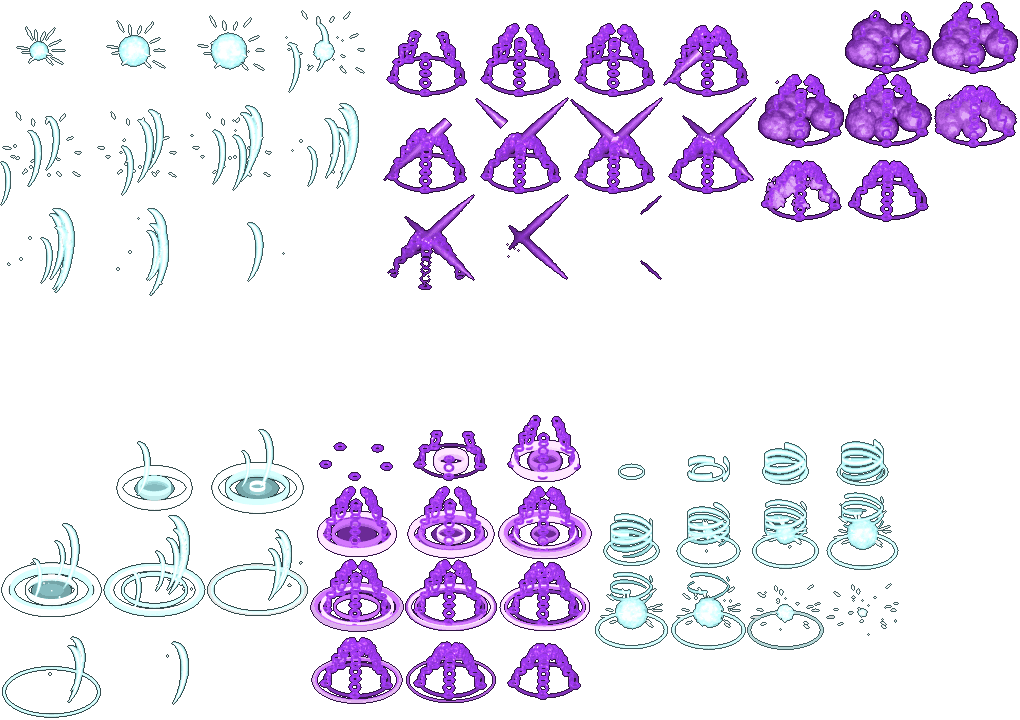
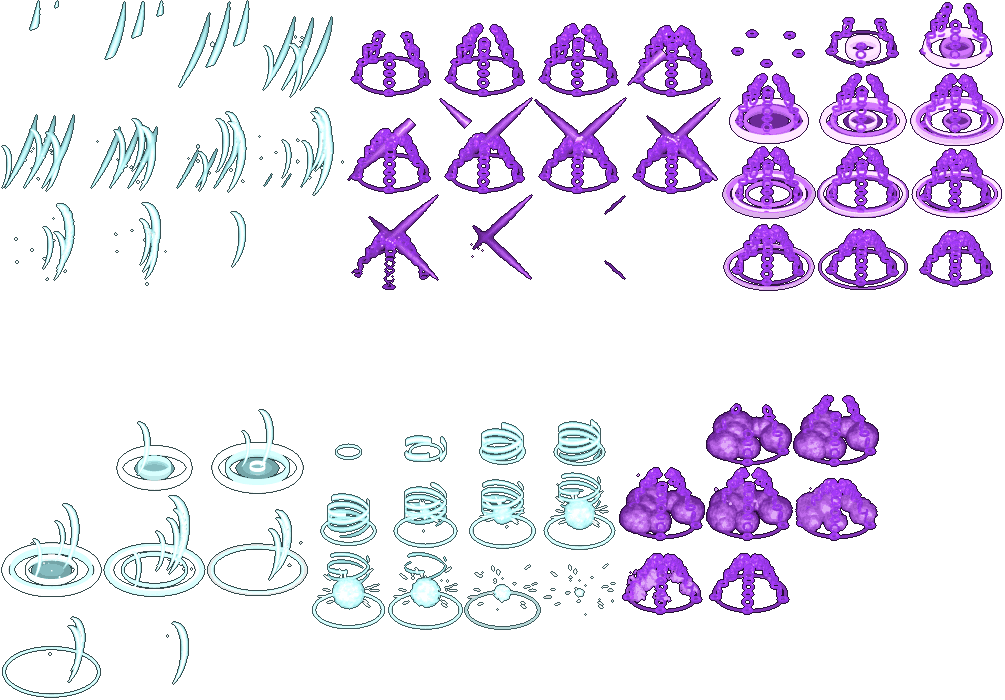
ULT-AUDIT, the full-size pass begun: fifteen judged; the Kunoichi's aftermath, the Ninja Monk's flurry and the Gunslinger's shots changed
Claude-Session: https://claude.ai/code/session_01RRJtWnKv3aqtC5Z8HqXpVz

diff --git a/src/render/blenderFxData.ts b/src/render/blenderFxData.ts
@@ -7,7 +7,7 @@ import type { BfxClip } from './blenderFxRules';
 export const BFX_DENSITY = 45;
 export const BFX_GLOW_SHRINK = 4;
 /** The hard pixel atlases' sizes, then the soft glow atlases' (`px-<n>.webp`, `soft-<n>.webp`). */
-export const BFX_PX: readonly (readonly [number, number])[] = [[2041, 2022], [1992, 694], [1088, 1104], [808, 1016], [822, 588], [885, 820], [217, 241], [988, 806], [1137, 1385], [1016, 691], [994, 778], [316, 280], [986, 966], [1016, 805], [545, 277], [1015, 996], [923, 903], [1020, 720], [1176, 1280], [1516, 1280], [873, 563], [1137, 1405], [1008, 1200], [979, 716], [929, 910], [620, 256], [1264, 1028], [994, 605], [1023, 821], [919, 810], [874, 978], [277, 220], [754, 896], [991, 893], [1022, 950], [280, 259], [817, 817], [918, 856], [980, 813], [802, 799], [834, 1009], [991, 950], [689, 569], [841, 1021], [881, 584], [900, 898], [286, 217], [930, 974], [494, 241], [987, 993], [286, 196], [977, 902], [541, 473], [781, 941], [894, 701], [943, 886], [902, 993], [1076, 1048], [980, 738], [917, 874], [451, 496], [984, 1048], [974, 866], [1001, 758], [1516, 1200], [1014, 630], [1137, 1400], [992, 776], [1516, 1200], [891, 926], [829, 809], [945, 680], [1020, 1011], [813, 223], [1018, 1022], [499, 136], [1024, 1018], [699, 226], [1012, 1015], [515, 145], [1019, 991], [492, 148], [1003, 1020], [428, 213], [1015, 1018], [429, 124], [1003, 1006], [960, 208], [1021, 1023], [473, 145], [1024, 1008], [650, 226]];
+export const BFX_PX: readonly (readonly [number, number])[] = [[2041, 2022], [1992, 694], [1088, 1104], [808, 1016], [822, 588], [885, 820], [217, 241], [961, 806], [1137, 1385], [1016, 691], [994, 778], [316, 280], [986, 966], [1016, 805], [545, 277], [1015, 996], [923, 903], [1005, 700], [1176, 1280], [1516, 1280], [873, 563], [1137, 1405], [1008, 1200], [979, 716], [929, 918], [620, 256], [1264, 1028], [994, 605], [1023, 821], [919, 810], [874, 978], [277, 220], [754, 896], [991, 893], [1022, 950], [280, 259], [817, 817], [918, 856], [980, 813], [802, 799], [834, 1009], [991, 950], [689, 569], [841, 1021], [881, 584], [900, 898], [286, 217], [930, 974], [494, 241], [987, 993], [286, 196], [977, 902], [541, 473], [781, 941], [894, 701], [943, 886], [902, 993], [1076, 1048], [980, 738], [917, 874], [451, 496], [984, 1048], [974, 866], [1001, 758], [1516, 1200], [1014, 630], [1137, 1400], [992, 776], [1516, 1200], [891, 926], [829, 809], [945, 680], [1020, 1011], [813, 223], [1018, 1022], [499, 136], [1024, 1018], [699, 226], [1012, 1015], [515, 145], [1019, 991], [492, 148], [1003, 1020], [428, 213], [1015, 1018], [429, 124], [1003, 1006], [960, 208], [1021, 1023], [473, 145], [1024, 1008], [650, 226]];
 export const BFX_SOFT: readonly (readonly [number, number])[] = [[2048, 1319]];
 /** The pixel atlases every fight may need (the spells, the ground loops): loaded up front. The rest are loaded when a fight needs them. */
 export const BFX_CORE: readonly number[] = [0, 1];
@@ -280,9 +280,9 @@ export const BFX_CLIPS: Readonly<Record<string, BfxClip>> = {
   'ult-bombardier-aftermath': {"a": 65, "x": 271, "y": 401, "w": 81, "h": 71, "n": 9, "cols": 3, "ax": 36.0, "ay": 50.4, "ms": 1800, "loop": false, "hold": 4, "layer": "over", "el": "fire", "cuts": [[0, 7], [1, 8]], "sc": ["flames", "cloud"]},
   'ult-bombardier-strike': {"a": 64, "x": 0, "y": 0, "w": 379, "h": 300, "n": 13, "cols": 4, "ax": 189.5, "ay": 205.1, "ms": 1300, "loop": false, "hold": 6, "layer": "over", "el": "fire", "cuts": [[1, 12], [0, 8], [3, 12]], "sc": ["impact", "shaft", "burst"]},
   'ult-bombardier-windup': {"a": 65, "x": 481, "y": 0, "w": 93, "h": 92, "n": 12, "cols": 3, "ax": 46.5, "ay": 68.6, "ms": 2000, "loop": false, "hold": 11, "layer": "over", "el": "fire", "cuts": [[0, 11], [3, 11]], "sc": ["flames", "geyser"]},
-  'ult-buccaneer-aftermath': {"a": 17, "x": 758, "y": 0, "w": 87, "h": 74, "n": 9, "cols": 3, "ax": 44.0, "ay": 53.2, "ms": 1600, "loop": false, "hold": 4, "layer": "over", "el": "shadow", "cuts": [[0, 7], [1, 8]], "sc": ["cloud", "chains"]},
-  'ult-buccaneer-strike': {"a": 17, "x": 381, "y": 0, "w": 94, "h": 97, "n": 13, "cols": 4, "ax": 46.5, "ay": 76.4, "ms": 1300, "loop": false, "hold": 6, "layer": "over", "el": "shadow", "cuts": [[0, 8], [3, 12]], "sc": ["chains", "cross"], "at": "each"},
-  'ult-buccaneer-windup': {"a": 17, "x": 310, "y": 413, "w": 94, "h": 73, "n": 12, "cols": 3, "ax": 47.0, "ay": 48.8, "ms": 1700, "loop": false, "hold": 6, "layer": "over", "el": "shadow", "cuts": [[0, 11], [0, 11]], "sc": ["chains", "ring"]},
+  'ult-buccaneer-aftermath': {"a": 17, "x": 619, "y": 393, "w": 87, "h": 74, "n": 9, "cols": 3, "ax": 44.0, "ay": 53.2, "ms": 1600, "loop": false, "hold": 4, "layer": "over", "el": "shadow", "cuts": [[0, 7], [1, 8]], "sc": ["cloud", "chains"]},
+  'ult-buccaneer-strike': {"a": 17, "x": 345, "y": 0, "w": 94, "h": 97, "n": 13, "cols": 4, "ax": 46.5, "ay": 76.4, "ms": 1300, "loop": false, "hold": 6, "layer": "over", "el": "shadow", "cuts": [[0, 8], [3, 12]], "sc": ["chains", "cross"], "at": "each"},
+  'ult-buccaneer-windup': {"a": 17, "x": 722, "y": 0, "w": 94, "h": 73, "n": 12, "cols": 3, "ax": 47.0, "ay": 48.8, "ms": 1700, "loop": false, "hold": 6, "layer": "over", "el": "shadow", "cuts": [[0, 11], [0, 11]], "sc": ["chains", "ring"]},
   'ult-cleric-aftermath': {"a": 49, "x": 674, "y": 537, "w": 104, "h": 85, "n": 9, "cols": 3, "ax": 52.0, "ay": 58.4, "ms": 1700, "loop": false, "hold": 3, "layer": "over", "el": "holy", "cuts": [[0, 7], [1, 8]], "sc": ["ring", "motes"], "g": {"a": 0, "x": 1513, "y": 1142, "w": 31, "h": 27, "cols": 3, "ax": 15.5, "ay": 17.09}},
   'ult-cleric-strike': {"a": 49, "x": 0, "y": 0, "w": 162, "h": 134, "n": 13, "cols": 4, "ax": 81.0, "ay": 92.6, "ms": 1300, "loop": false, "hold": 5, "layer": "over", "el": "holy", "cuts": [[0, 8], [3, 12], [1, 11]], "sc": ["souls", "motes", "ring"], "at": "self", "g": {"a": 0, "x": 684, "y": 452, "w": 47, "h": 46, "cols": 4, "ax": 23.25, "ay": 32.66}},
   'ult-cleric-windup': {"a": 49, "x": 391, "y": 537, "w": 94, "h": 73, "n": 12, "cols": 3, "ax": 47.0, "ay": 48.8, "ms": 1900, "loop": false, "hold": 9, "layer": "over", "el": "holy", "cuts": [[0, 11], [1, 11]], "sc": ["ring", "souls"], "g": {"a": 0, "x": 126, "y": 1032, "w": 29, "h": 35, "cols": 4, "ax": 14.25, "ay": 26.2}},
@@ -314,7 +314,7 @@ export const BFX_CLIPS: Readonly<Record<string, BfxClip>> = {
   'ult-gorgon-strike': {"a": 30, "x": 0, "y": 649, "w": 78, "h": 82, "n": 13, "cols": 4, "ax": 38.5, "ay": 62.6, "ms": 1300, "loop": false, "hold": 5, "layer": "over", "el": "poison", "cuts": [[0, 8], [3, 12]], "sc": ["crystal", "smoke"], "at": "each"},
   'ult-gorgon-windup': {"a": 30, "x": 573, "y": 0, "w": 100, "h": 93, "n": 12, "cols": 3, "ax": 50.0, "ay": 67.8, "ms": 1900, "loop": false, "hold": 11, "layer": "over", "el": "poison", "cuts": [[0, 11], [2, 11]], "sc": ["vines", "eye"]},
   'ult-gunslinger-aftermath': {"a": 25, "x": 310, "y": 0, "w": 103, "h": 72, "n": 9, "cols": 3, "ax": 51.5, "ay": 44.7, "ms": 1800, "loop": false, "hold": 3, "layer": "over", "el": "fire", "cuts": [[0, 7], [1, 8]], "sc": ["ring", "smoke"]},
-  'ult-gunslinger-strike': {"a": 24, "x": 0, "y": 565, "w": 96, "h": 86, "n": 13, "cols": 4, "ax": 49.0, "ay": 76.0, "ms": 1300, "loop": false, "hold": 6, "layer": "over", "el": "fire", "cuts": [[0, 8], [3, 12]], "sc": ["sparks", "cross"], "at": "each"},
+  'ult-gunslinger-strike': {"a": 24, "x": 0, "y": 565, "w": 110, "h": 88, "n": 13, "cols": 4, "ax": 55.0, "ay": 59.9, "ms": 1300, "loop": false, "hold": 8, "layer": "over", "el": "fire", "cuts": [[0, 8], [3, 12]], "sc": ["sparks", "flare"], "at": "each"},
   'ult-gunslinger-windup': {"a": 24, "x": 649, "y": 0, "w": 93, "h": 91, "n": 12, "cols": 3, "ax": 46.5, "ay": 67.6, "ms": 2000, "loop": false, "hold": 11, "layer": "over", "el": "fire", "cuts": [[0, 11], [7, 11]], "sc": ["halo", "sparks"]},
   'ult-harpooner-aftermath': {"a": 71, "x": 301, "y": 373, "w": 89, "h": 77, "n": 9, "cols": 3, "ax": 45.0, "ay": 53.4, "ms": 1600, "loop": false, "hold": 4, "layer": "over", "el": "ice", "cuts": [[0, 7], [1, 8]], "sc": ["spikes", "chains"]},
   'ult-harpooner-strike': {"a": 71, "x": 584, "y": 0, "w": 90, "h": 77, "n": 13, "cols": 4, "ax": 45.5, "ay": 54.0, "ms": 1300, "loop": false, "hold": 6, "layer": "over", "el": "ice", "cuts": [[0, 8], [3, 12]], "sc": ["chains", "spikes"], "at": "each"},
@@ -346,9 +346,9 @@ export const BFX_CLIPS: Readonly<Record<string, BfxClip>> = {
   'ult-kraken-aftermath': {"a": 33, "x": 557, "y": 0, "w": 104, "h": 103, "n": 9, "cols": 3, "ax": 52.5, "ay": 75.6, "ms": 1700, "loop": false, "hold": 3, "layer": "over", "el": "water", "cuts": [[0, 7], [1, 8]], "sc": ["ring", "geyser"]},
   'ult-kraken-strike': {"a": 33, "x": 0, "y": 0, "w": 139, "h": 153, "n": 13, "cols": 4, "ax": 69.0, "ay": 117.7, "ms": 1300, "loop": false, "hold": 6, "layer": "over", "el": "water", "cuts": [[0, 8], [3, 12]], "sc": ["whirlpool", "geyser"], "at": "self"},
   'ult-kraken-windup': {"a": 33, "x": 0, "y": 613, "w": 91, "h": 93, "n": 12, "cols": 4, "ax": 45.5, "ay": 69.6, "ms": 1900, "loop": false, "hold": 11, "layer": "over", "el": "water", "cuts": [[0, 11], [4, 11]], "sc": ["whirlpool", "geyser"]},
-  'ult-kunoichi-aftermath': {"a": 7, "x": 536, "y": 485, "w": 89, "h": 77, "n": 9, "cols": 3, "ax": 46.0, "ay": 57.4, "ms": 1600, "loop": false, "hold": 4, "layer": "over", "el": "shadow", "cuts": [[0, 7], [1, 8]], "sc": ["cloud", "swarm"]},
+  'ult-kunoichi-aftermath': {"a": 7, "x": 250, "y": 485, "w": 80, "h": 89, "n": 9, "cols": 3, "ax": 40.5, "ay": 70.7, "ms": 1600, "loop": false, "hold": 4, "layer": "over", "el": "shadow", "cuts": [[0, 7], [1, 8]], "sc": ["gust", "swarm"]},
   'ult-kunoichi-strike': {"a": 7, "x": 521, "y": 0, "w": 94, "h": 87, "n": 13, "cols": 4, "ax": 46.5, "ay": 76.4, "ms": 1300, "loop": false, "hold": 4, "layer": "over", "el": "shadow", "cuts": [[0, 8], [3, 12]], "sc": ["cross", "swarm"], "at": "each"},
-  'ult-kunoichi-windup': {"a": 7, "x": 804, "y": 485, "w": 61, "h": 52, "n": 12, "cols": 3, "ax": 27.5, "ay": 43.6, "ms": 1700, "loop": false, "hold": 7, "layer": "over", "el": "shadow", "cuts": [[0, 11], [3, 11]], "sc": ["smoke", "swarm"]},
+  'ult-kunoichi-windup': {"a": 7, "x": 777, "y": 485, "w": 61, "h": 52, "n": 12, "cols": 3, "ax": 27.5, "ay": 43.6, "ms": 1700, "loop": false, "hold": 7, "layer": "over", "el": "shadow", "cuts": [[0, 11], [3, 11]], "sc": ["smoke", "swarm"]},
   'ult-lancer-aftermath': {"a": 14, "x": 0, "y": 0, "w": 89, "h": 92, "n": 9, "cols": 3, "ax": 38.0, "ay": 67.4, "ms": 1500, "loop": false, "hold": 5, "layer": "over", "el": "wind", "cuts": [[0, 7], [1, 8]], "sc": ["trail", "gust"]},
   'ult-lancer-strike': {"a": 13, "x": 0, "y": 0, "w": 183, "h": 201, "n": 13, "cols": 4, "ax": 79.5, "ay": 127.9, "ms": 1300, "loop": false, "hold": 4, "layer": "over", "el": "wind", "cuts": [[0, 8], [3, 12], [1, 11]], "sc": ["trail", "gust", "sparks"]},
   'ult-lancer-windup': {"a": 14, "x": 268, "y": 0, "w": 69, "h": 77, "n": 12, "cols": 4, "ax": 34.0, "ay": 55.8, "ms": 1600, "loop": false, "hold": 6, "layer": "over", "el": "wind", "cuts": [[0, 11], [3, 11]], "sc": ["gust", "trail"]},
@@ -370,10 +370,10 @@ export const BFX_CLIPS: Readonly<Record<string, BfxClip>> = {
   'ult-nightstalker-aftermath': {"a": 56, "x": 577, "y": 0, "w": 81, "h": 102, "n": 9, "cols": 4, "ax": 43.5, "ay": 78.5, "ms": 1600, "loop": false, "hold": 3, "layer": "over", "el": "shadow", "cuts": [[0, 7], [1, 8]], "sc": ["cloud", "claws"]},
   'ult-nightstalker-strike': {"a": 56, "x": 0, "y": 0, "w": 144, "h": 181, "n": 13, "cols": 4, "ax": 71.0, "ay": 157.1, "ms": 1300, "loop": false, "hold": 6, "layer": "over", "el": "shadow", "cuts": [[0, 8], [3, 12]], "sc": ["swarm", "claws"]},
   'ult-nightstalker-windup': {"a": 56, "x": 329, "y": 725, "w": 66, "h": 61, "n": 12, "cols": 3, "ax": 30.5, "ay": 51.6, "ms": 1700, "loop": false, "hold": 7, "layer": "over", "el": "shadow", "cuts": [[0, 11], [2, 11]], "sc": ["swarm", "smoke"]},
-  'ult-ninjaMonk-aftermath': {"a": 17, "x": 0, "y": 413, "w": 103, "h": 102, "n": 9, "cols": 3, "ax": 51.5, "ay": 75.7, "ms": 1600, "loop": false, "hold": 3, "layer": "over", "el": "wind", "cuts": [[0, 7], [1, 8]], "sc": ["ring", "gust"]},
-  'ult-ninjaMonk-strike': {"a": 17, "x": 0, "y": 0, "w": 95, "h": 103, "n": 13, "cols": 4, "ax": 39.0, "ay": 70.7, "ms": 1300, "loop": false, "hold": 6, "layer": "over", "el": "wind", "cuts": [[0, 8], [3, 12]], "sc": ["sparks", "gust"], "at": "each"},
-  'ult-ninjaMonk-windup': {"a": 17, "x": 593, "y": 413, "w": 77, "h": 79, "n": 12, "cols": 4, "ax": 38.5, "ay": 59.6, "ms": 1700, "loop": false, "hold": 7, "layer": "over", "el": "wind", "cuts": [[0, 11], [4, 11]], "sc": ["spiral", "sparks"]},
-  'ult-nyxara-aftermath': {"a": 7, "x": 250, "y": 485, "w": 95, "h": 89, "n": 9, "cols": 3, "ax": 47.5, "ay": 64.7, "ms": 1700, "loop": false, "hold": 4, "layer": "over", "el": "lightning", "cuts": [[0, 7], [1, 8]], "sc": ["sigil", "spiral"], "g": {"a": 0, "x": 1608, "y": 1142, "w": 30, "h": 27, "cols": 3, "ax": 14.88, "ay": 18.17}},
+  'ult-ninjaMonk-aftermath': {"a": 17, "x": 0, "y": 393, "w": 103, "h": 102, "n": 9, "cols": 3, "ax": 51.5, "ay": 75.7, "ms": 1600, "loop": false, "hold": 3, "layer": "over", "el": "wind", "cuts": [[0, 7], [1, 8]], "sc": ["ring", "gust"]},
+  'ult-ninjaMonk-strike': {"a": 17, "x": 0, "y": 0, "w": 86, "h": 98, "n": 13, "cols": 4, "ax": 40.0, "ay": 78.7, "ms": 1300, "loop": false, "hold": 4, "layer": "over", "el": "wind", "cuts": [[0, 8], [3, 12]], "sc": ["claws", "gust"], "at": "each"},
+  'ult-ninjaMonk-windup': {"a": 17, "x": 310, "y": 393, "w": 77, "h": 79, "n": 12, "cols": 4, "ax": 38.5, "ay": 59.6, "ms": 1700, "loop": false, "hold": 7, "layer": "over", "el": "wind", "cuts": [[0, 11], [4, 11]], "sc": ["spiral", "sparks"]},
+  'ult-nyxara-aftermath': {"a": 7, "x": 491, "y": 485, "w": 95, "h": 89, "n": 9, "cols": 3, "ax": 47.5, "ay": 64.7, "ms": 1700, "loop": false, "hold": 4, "layer": "over", "el": "lightning", "cuts": [[0, 7], [1, 8]], "sc": ["sigil", "spiral"], "g": {"a": 0, "x": 1608, "y": 1142, "w": 30, "h": 27, "cols": 3, "ax": 14.88, "ay": 18.17}},
   'ult-nyxara-strike': {"a": 7, "x": 0, "y": 0, "w": 130, "h": 121, "n": 13, "cols": 4, "ax": 65.0, "ay": 88.3, "ms": 1300, "loop": false, "hold": 7, "layer": "over", "el": "lightning", "cuts": [[0, 8], [3, 12]], "sc": ["sigil", "spiral"], "at": "friends", "g": {"a": 0, "x": 1121, "y": 744, "w": 40, "h": 37, "cols": 4, "ax": 20.0, "ay": 24.58}},
   'ult-nyxara-windup': {"a": 7, "x": 0, "y": 485, "w": 83, "h": 80, "n": 12, "cols": 3, "ax": 41.5, "ay": 58.9, "ms": 1900, "loop": false, "hold": 9, "layer": "over", "el": "lightning", "cuts": [[0, 11], [3, 11]], "sc": ["sigil", "spiral"], "g": {"a": 0, "x": 472, "y": 1032, "w": 28, "h": 35, "cols": 4, "ax": 13.62, "ay": 26.22}},
   'ult-orrun-aftermath': {"a": 6, "x": 0, "y": 0, "w": 72, "h": 80, "n": 9, "cols": 3, "ax": 35.5, "ay": 58.5, "ms": 1700, "loop": false, "hold": 4, "layer": "over", "el": "forest", "cuts": [[0, 7], [1, 8]], "sc": ["vines", "swarm"]},
@@ -399,7 +399,7 @@ export const BFX_CLIPS: Readonly<Record<string, BfxClip>> = {
   'ult-reaper-windup': {"a": 38, "x": 721, "y": 0, "w": 86, "h": 76, "n": 12, "cols": 3, "ax": 40.5, "ay": 55.0, "ms": 1900, "loop": false, "hold": 10, "layer": "over", "el": "shadow", "cuts": [[0, 11], [6, 11]], "sc": ["souls", "arc"]},
   'ult-rifleBot-aftermath': {"a": 25, "x": 0, "y": 0, "w": 103, "h": 85, "n": 9, "cols": 3, "ax": 51.5, "ay": 58.1, "ms": 1600, "loop": false, "hold": 3, "layer": "over", "el": "lightning", "cuts": [[0, 7], [1, 8]], "sc": ["ring", "sparks"], "g": {"a": 0, "x": 1774, "y": 1032, "w": 42, "h": 31, "cols": 3, "ax": 20.62, "ay": 19.28}},
   'ult-rifleBot-strike': {"a": 24, "x": 0, "y": 0, "w": 162, "h": 141, "n": 13, "cols": 4, "ax": 81.0, "ay": 99.8, "ms": 1300, "loop": false, "hold": 5, "layer": "over", "el": "lightning", "cuts": [[0, 8], [3, 12], [1, 11]], "sc": ["sparks", "ring", "spiral"], "at": "self", "g": {"a": 0, "x": 236, "y": 452, "w": 63, "h": 47, "cols": 3, "ax": 31.25, "ay": 29.2}},
-  'ult-rifleBot-windup': {"a": 24, "x": 385, "y": 565, "w": 86, "h": 98, "n": 12, "cols": 4, "ax": 48.5, "ay": 78.6, "ms": 1700, "loop": false, "hold": 11, "layer": "over", "el": "lightning", "cuts": [[0, 11], [6, 11]], "sc": ["sparks", "bolt"], "g": {"a": 0, "x": 1283, "y": 744, "w": 38, "h": 37, "cols": 3, "ax": 18.88, "ay": 26.16}},
+  'ult-rifleBot-windup': {"a": 24, "x": 441, "y": 565, "w": 86, "h": 98, "n": 12, "cols": 4, "ax": 48.5, "ay": 78.6, "ms": 1700, "loop": false, "hold": 11, "layer": "over", "el": "lightning", "cuts": [[0, 11], [6, 11]], "sc": ["sparks", "bolt"], "g": {"a": 0, "x": 1283, "y": 744, "w": 38, "h": 37, "cols": 3, "ax": 18.88, "ay": 26.16}},
   'ult-sage-aftermath': {"a": 50, "x": 0, "y": 0, "w": 95, "h": 65, "n": 9, "cols": 3, "ax": 47.5, "ay": 41.4, "ms": 1700, "loop": false, "hold": 6, "layer": "over", "el": "lightning", "cuts": [[0, 7], [1, 8]], "sc": ["sigil", "dome"], "g": {"a": 0, "x": 596, "y": 1237, "w": 30, "h": 23, "cols": 3, "ax": 14.88, "ay": 13.35}},
   'ult-sage-strike': {"a": 49, "x": 0, "y": 537, "w": 130, "h": 91, "n": 13, "cols": 3, "ax": 65.0, "ay": 58.2, "ms": 1300, "loop": false, "hold": 6, "layer": "over", "el": "lightning", "cuts": [[0, 8], [3, 12]], "sc": ["dome", "sigil"], "at": "friends", "g": {"a": 0, "x": 563, "y": 744, "w": 40, "h": 30, "cols": 3, "ax": 20.0, "ay": 17.79}},
   'ult-sage-windup': {"a": 49, "x": 649, "y": 0, "w": 81, "h": 79, "n": 12, "cols": 3, "ax": 40.5, "ay": 59.1, "ms": 1900, "loop": false, "hold": 7, "layer": "over", "el": "lightning", "cuts": [[0, 11], [4, 11]], "sc": ["spiral", "dome"], "g": {"a": 0, "x": 700, "y": 1032, "w": 27, "h": 35, "cols": 4, "ax": 13.12, "ay": 26.27}},

diff --git a/tools/blender-fx/effects.py b/tools/blender-fx/effects.py
@@ -189,9 +189,9 @@ ULTS = dict(
     orrun=('forest', 'vines', 'dome', 'bless'), nyxara=('lightning', 'sigil', 'spiral', 'bless'), kunoichi=('shadow', 'cross', 'swarm', 'blinks'),
     wizard=('fire', 'burst', 'crack', 'sky'), beastmaster=('forest', 'beast', 'trail', 'pack'), mercenary=('blood', 'cross', 'sparks', 'blinks'),
     arcBlade=('lightning', 'bolt', 'cross', 'blinks'), samurai=('holy', 'arc', 'sparks', 'line'), lancer=('wind', 'trail', 'gust', 'line'),
-    minotaur=('earth', 'crack', 'smoke', 'line'), barbarian=('blood', 'crack', 'burst', 'leap'), ninjaMonk=('wind', 'sparks', 'gust', 'blows'),
+    minotaur=('earth', 'crack', 'smoke', 'line'), barbarian=('blood', 'crack', 'burst', 'leap'), ninjaMonk=('wind', 'claws', 'gust', 'blows'),
     buccaneer=('shadow', 'chains', 'cross', 'hooks'), archer=('wind', 'rain', 'ring', 'sky'), dreadPirate=('shadow', 'rain', 'burst', 'sky'),
-    siegeBot=('fire', 'burst', 'shockwave', 'sky'), lightningMage=('lightning', 'cloud', 'bolt', 'shots'), gunslinger=('fire', 'sparks', 'cross', 'shots'),
+    siegeBot=('fire', 'burst', 'shockwave', 'sky'), lightningMage=('lightning', 'cloud', 'bolt', 'shots'), gunslinger=('fire', 'sparks', 'flare', 'shots'),
     rifleBot=('lightning', 'sparks', 'ring', 'shots'), dragoon=('fire', 'flare', 'wall', 'shots'), ranger=('forest', 'vines', 'ring', 'burst'),
     knight=('holy', 'shout', 'dome', 'burst'), paladin=('holy', 'nova', 'strike', 'burst'), yamabushi=('wind', 'vortex', 'gust', 'burst'),
     gorgon=('poison', 'crystal', 'smoke', 'burst'), juggernaut=('earth', 'crack', 'spikes', 'burst'), kraken=('water', 'whirlpool', 'geyser', 'burst'),
@@ -265,7 +265,7 @@ WIND_COLOURS = dict(beastmaster=22)
 # ground loops' pairs out of this file by their shape.)
 AFTER_OWN = dict(
     vael=['sigil', 'souls'], astrax=['flames', 'motes'], ilyra=['ring', 'halo'], orrun=['vines', 'swarm'],
-    nyxara=['sigil', 'spiral'], kunoichi=['cloud', 'swarm'], wizard=['crack', 'flames'], beastmaster=['gust', 'motes'],
+    nyxara=['sigil', 'spiral'], kunoichi=['gust', 'swarm'], wizard=['crack', 'flames'], beastmaster=['gust', 'motes'],
     mercenary=['crack', 'sparks'], arcBlade=['crack', 'bolt'], samurai=['trail', 'veil'], lancer=['trail', 'gust'],
     minotaur=['crack', 'smoke'], barbarian=['crack', 'flare'], ninjaMonk=['ring', 'gust'], buccaneer=['cloud', 'chains'],
     archer=['ring', 'shaft'], dreadPirate=['crack', 'souls'], siegeBot=['crack', 'cloud'], lightningMage=['cloud', 'bolt'],

diff --git a/tools/blender-fx/full_pass.py b/tools/blender-fx/full_pass.py
@@ -1,0 +1,31 @@
+"""ULT-AUDIT (docs/notes/ult-audit.md): a few heroes' ultimates at full size, to judge whether each reads as its ability.
+
+    python3 tools/blender-fx/full_pass.py <frames> <out.jpg> <pick,pick,...>
+
+Four moments of each (the wind-up at its height, the strike late, the aftermath early and in its middle), cut to the board, unscaled.
+"""
+import sys
+from pathlib import Path
+
+from PIL import Image, ImageDraw
+
+src, out, picks = Path(sys.argv[1]), sys.argv[2], sys.argv[3].split(',')
+WANT = (2, 4, 5, 6)
+rows = []
+for pick in picks:
+    fs = {int(f.stem.split('-')[2]): f for f in src.glob(f'{pick}-393-*.png')}
+    if not all(n in fs for n in WANT):
+        continue
+    row = Image.new('RGB', (393 * len(WANT), 384), (18, 18, 24))
+    d = ImageDraw.Draw(row)
+    for i, n in enumerate(WANT):
+        row.paste(Image.open(fs[n]).convert('RGB').crop((0, 230, 393, 600)), (i * 393, 14))
+        d.text((i * 393 + 4, 1), f'{pick}: {fs[n].stem.split("-")[3]}' if i == 0 else fs[n].stem.split('-')[3], fill=(255, 235, 170))
+    rows.append(row)
+sheet = Image.new('RGB', (393 * len(WANT), sum(r.height for r in rows)), (18, 18, 24))
+y = 0
+for r in rows:
+    sheet.paste(r, (0, y))
+    y += r.height
+sheet.save(out, quality=78)
+print(out, sheet.size, len(rows), 'heroes')

diff --git a/docs/notes/ult-audit.md b/docs/notes/ult-audit.md
@@ -296,6 +296,37 @@ comes at 2 s. (The Samurai's line did not reach every foe in the staged fight, s
 Not done: an Eidolon's call. Its strike is the other builder's staged show (`eidolonCall.ts`, its own clock and its own cut,
 `CALL_OVER_MS`), not a small change of this kind; it is left as it is.
 
+## The full-size pass (begun): fifteen judged by the owner's two tests
+
+The director's order: go through the 48 not yet looked at closely, at full size, and judge each by the owner's two tests: does it
+show what the ability does, and could it be mistaken for another hero's. `tools/blender-fx/full_pass.py` cuts four moments of each
+(the wind-up at its height, the strike late, the aftermath early and in its middle) to the board, unscaled.
+`docs/samples/blender-fx/audit-fullsize-1-393.jpg`, `-2`, `-3` (as they were on 0.534.0) and `audit-fullsize-fixes-393.jpg` (the
+three changed here, after).
+
+| Hero | Shows the ability? | Mistaken for another? | Verdict |
+| --- | --- | --- | --- |
+| Vael, Kneel Before Night | a great sweeping cut across the field, then sigils on the ground; the shield on allies is not shown | no | reads as his sweep; it is purple where his words say a golden sweep, and his totality (eight seconds of it) has nothing lasting |
+| Ilyra, Death Denied | a line of light to each friend, then a golden dome with rays over each | close to Orrun's domes in shape, gold against green | reads as protection laid on each ally |
+| Orrun, The World Stands | vines rise round him; a dome wound with vines over each ally | see Ilyra | reads as a sanctuary on each ally |
+| Nyxara, Rewrite Fate | a sigil; a line to each ally; a spiral and a sigil on each | no | the spirals read as something wound back; acceptable |
+| Kunoichi, Assassinate | crossed blades on each foe cut | the Mercenary's is also crossed blades (red), with sparks | the strike reads. Her aftermath was a mass of purple smoke over the fallen: CHANGED to gusts and petals; in the new photograph it is a row of purple arcs, no longer a mass, still busy. Her wind-up is a few pale flecks: weak |
+| Mercenary, Killing Spree | red blades on each of the three | see Kunoichi | reads; the wind-up is a plain red ball, weak |
+| Minotaur, Stampede | cracks where he paws, then cracks and dust where he charges | no | reads as a charge's wake; the charge itself is the showcase's |
+| Ninja Monk, Hundred-Hand Strike | was a single small ball of sparks: NOT a flurry of blows. CHANGED to claw-like slash marks and gusts | no | NOT CONFIRMED: in the new photograph the strike's frame is covered by another fighter's fire and I cannot see the slash marks |
+| Buccaneer, Keelhaul | a cage of purple chain round him and on those hooked | no | reads as hooks and chain |
+| Archer, Hail of Arrows | a shaft loosed upward; rings on the ground with thin arrows falling; shafts standing in the rings | no | reads; the falling arrows are thin |
+| Dread Pirate, Ghost Fleet | one huge purple ball that tears open | the other great blows | DOES NOT READ as broadsides from a fleet, and hides the field for most of the strike. Not fixed yet: it wants shot falling across several spots, not one ball |
+| Siege Bot, Orbital Strike | a targeting ring and the shell's line coming down, then a fireball and its ring | the Wizard's fireball | reads well |
+| Gunslinger, High Noon | was a burst on each target with crossed sword cuts over it: bullets are not cuts. CHANGED to a burst and flaring tongues | no | the new photograph shows a burst on each target, then flames in a ring: better; the wind-up (a halo of bars) says nothing of high noon |
+| Rifle Bot, Overclock | a bolt down onto it, then sparks and rings round it | no | reads as charging itself |
+| Dragoon, Inferno Breath | flames rise round her; a cluster of flame with a wall in it at one spot; tall tongues after | the other fire strikes | DOES NOT READ as breath down a line: it stands in one place. Not fixed yet: it wants laying along the line the breath takes |
+
+So of these fifteen: nine read (Ilyra, Orrun, Nyxara, the Minotaur, the Buccaneer, the Archer, the Siege Bot, the Rifle Bot, Vael
+with reservations), two were changed and now read better (the Kunoichi's aftermath, the Gunslinger), one was changed and is not
+confirmed (the Ninja Monk), two do not read and are not fixed (the Dread Pirate, the Dragoon), and several wind-ups are weak (the
+Kunoichi, the Mercenary, the Gunslinger). Thirty-three heroes remain to be looked at this way.
+
 ## The audit of all 70
 
 `docs/samples/blender-fx/audit-all-1.jpg` to `-7.jpg`: all 70 ultimates, ten heroes a sheet in the table's order, each fired by hand in
